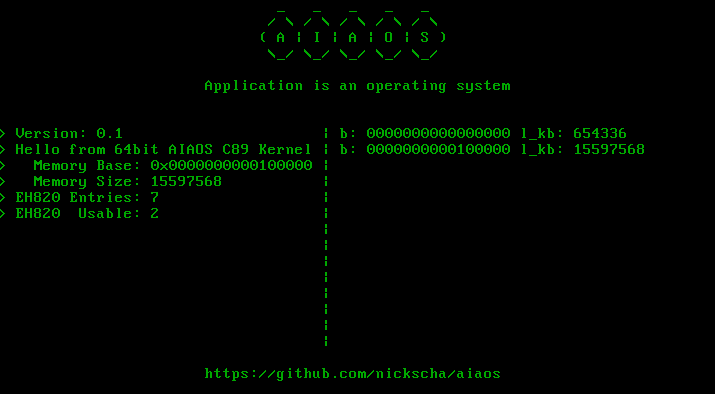
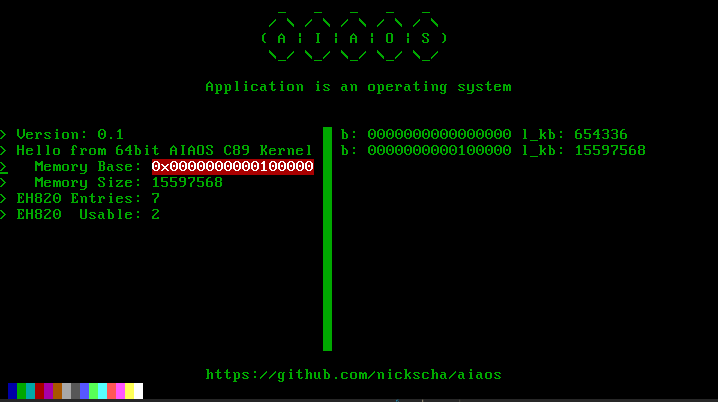
[VGA] add vga color enum

diff --git a/aiaos_kernel.c b/aiaos_kernel.c
@@ -101,28 +101,28 @@ void _start_kernel(void)
     aiaos_kernel_vga_clear_screen();
 
     /* Logo and Header Text */
-    aiaos_kernel_vga_write_string("   _   _   _   _   _", aiaos_logo_row_offset++, aiaos_logo_col_offset, 0x02);
-    aiaos_kernel_vga_write_string("  / \\ / \\ / \\ / \\ / \\", aiaos_logo_row_offset++, aiaos_logo_col_offset, 0x02);
-    aiaos_kernel_vga_write_string(" ( A | I | A | O | S )", aiaos_logo_row_offset++, aiaos_logo_col_offset, 0x02);
-    aiaos_kernel_vga_write_string("  \\_/ \\_/ \\_/ \\_/ \\_/", aiaos_logo_row_offset++, aiaos_logo_col_offset, 0x02);
-    aiaos_kernel_vga_write_string("Application is an operating system", aiaos_logo_row_offset + 1, aiaos_logo_long_col_offset, 0x02);
+    aiaos_kernel_vga_write_string("   _   _   _   _   _", aiaos_logo_row_offset++, aiaos_logo_col_offset, AIAOS_KERNEL_VGA_COLOR_GREEN);
+    aiaos_kernel_vga_write_string("  / \\ / \\ / \\ / \\ / \\", aiaos_logo_row_offset++, aiaos_logo_col_offset, AIAOS_KERNEL_VGA_COLOR_GREEN);
+    aiaos_kernel_vga_write_string(" ( A | I | A | O | S )", aiaos_logo_row_offset++, aiaos_logo_col_offset, AIAOS_KERNEL_VGA_COLOR_GREEN);
+    aiaos_kernel_vga_write_string("  \\_/ \\_/ \\_/ \\_/ \\_/", aiaos_logo_row_offset++, aiaos_logo_col_offset, AIAOS_KERNEL_VGA_COLOR_GREEN);
+    aiaos_kernel_vga_write_string("Application is an operating system", aiaos_logo_row_offset + 1, aiaos_logo_long_col_offset, AIAOS_KERNEL_VGA_COLOR_GREEN);
 
     /* General Information */
-    aiaos_kernel_vga_write_string("> Version: 0.1", 8, 0, 0x02);
-    aiaos_kernel_vga_write_string("> Hello from 64bit AIAOS C89 Kernel", 9, 0, 0x02);
+    aiaos_kernel_vga_write_string("> Version: 0.1", 8, 0, AIAOS_KERNEL_VGA_COLOR_GREEN);
+    aiaos_kernel_vga_write_string("> Hello from 64bit AIAOS C89 Kernel", 9, 0, AIAOS_KERNEL_VGA_COLOR_GREEN);
 
     /* Available Memory Infomration */
-    aiaos_kernel_vga_write_string(">   Memory Base:", 10, 0, 0x02);
-    aiaos_kernel_vga_write_string((char *)ptr_to_string(aiaos_kernel_memory), 10, 17, 0x02);
+    aiaos_kernel_vga_write_string(">   Memory Base:", 10, 0, AIAOS_KERNEL_VGA_COLOR_GREEN);
+    aiaos_kernel_vga_write_string((char *)ptr_to_string(aiaos_kernel_memory), 10, 17, aiaos_kernel_vga_make_color(AIAOS_KERNEL_VGA_COLOR_WHITE, AIAOS_KERNEL_VGA_COLOR_RED));
 
     ultoa(aiaos_kernel_memory_size, buf);
-    aiaos_kernel_vga_write_string(">   Memory Size:", 11, 0, 0x02);
-    aiaos_kernel_vga_write_string(buf, 11, 17, 0x02);
+    aiaos_kernel_vga_write_string(">   Memory Size:", 11, 0, AIAOS_KERNEL_VGA_COLOR_GREEN);
+    aiaos_kernel_vga_write_string(buf, 11, 17, AIAOS_KERNEL_VGA_COLOR_GREEN);
 
     /* E820 Information */
     ultoa((unsigned long)AIAOS_KERNEL_MEMORY_E820_MAP_COUNT, buf);
-    aiaos_kernel_vga_write_string("> EH820 Entries:", 12, 0, 0x02);
-    aiaos_kernel_vga_write_string(buf, 12, 17, 0x02);
+    aiaos_kernel_vga_write_string("> EH820 Entries:", 12, 0, AIAOS_KERNEL_VGA_COLOR_GREEN);
+    aiaos_kernel_vga_write_string(buf, 12, 17, AIAOS_KERNEL_VGA_COLOR_GREEN);
 
     for (i = 0; i < AIAOS_KERNEL_MEMORY_E820_MAP_COUNT; ++i)
     {
@@ -130,28 +130,34 @@ void _start_kernel(void)
         if (entry->type == 1)
         {
             uint_to_hex(buf, entry->base, 16);
-            aiaos_kernel_vga_write_string("b:", 8 + (int)eh820_usable_count, (AIAOS_KERNEL_VGA_COLUMNS_NUM / 2) - 3 + 1, 0x02);
-            aiaos_kernel_vga_write_string(buf, 8 + (int)eh820_usable_count, (AIAOS_KERNEL_VGA_COLUMNS_NUM / 2) - 3 + 1 + 3, 0x02);
+            aiaos_kernel_vga_write_string("b:", 8 + (int)eh820_usable_count, (AIAOS_KERNEL_VGA_COLUMNS_NUM / 2) - 3 + 1, AIAOS_KERNEL_VGA_COLOR_GREEN);
+            aiaos_kernel_vga_write_string(buf, 8 + (int)eh820_usable_count, (AIAOS_KERNEL_VGA_COLUMNS_NUM / 2) - 3 + 1 + 3, AIAOS_KERNEL_VGA_COLOR_GREEN);
 
             ultoa(entry->length, buf);
-            aiaos_kernel_vga_write_string("l_kb:", 8 + (int)eh820_usable_count, (AIAOS_KERNEL_VGA_COLUMNS_NUM / 2) - 3 + 1 + 20, 0x02);
-            aiaos_kernel_vga_write_string(buf, 8 + (int)eh820_usable_count, (AIAOS_KERNEL_VGA_COLUMNS_NUM / 2) - 3 + 1 + 20 + 6, 0x02);
+            aiaos_kernel_vga_write_string("l_kb:", 8 + (int)eh820_usable_count, (AIAOS_KERNEL_VGA_COLUMNS_NUM / 2) - 3 + 1 + 20, AIAOS_KERNEL_VGA_COLOR_GREEN);
+            aiaos_kernel_vga_write_string(buf, 8 + (int)eh820_usable_count, (AIAOS_KERNEL_VGA_COLUMNS_NUM / 2) - 3 + 1 + 20 + 6, AIAOS_KERNEL_VGA_COLOR_GREEN);
 
             eh820_usable_count++;
         }
     }
     ultoa(eh820_usable_count, buf);
-    aiaos_kernel_vga_write_string("> EH820  Usable:", 13, 0, 0x02);
-    aiaos_kernel_vga_write_string(buf, 13, 17, 0x02);
+    aiaos_kernel_vga_write_string("> EH820  Usable:", 13, 0, AIAOS_KERNEL_VGA_COLOR_GREEN);
+    aiaos_kernel_vga_write_string(buf, 13, 17, AIAOS_KERNEL_VGA_COLOR_GREEN);
 
     /* Vertical divider */
     for (i = 0; i < 14; ++i)
     {
-        aiaos_kernel_vga_write_string("|", 8 + i, (AIAOS_KERNEL_VGA_COLUMNS_NUM / 2) - 4, 0x02);
+        aiaos_kernel_vga_write_string("|", 8 + i, (AIAOS_KERNEL_VGA_COLUMNS_NUM / 2) - 4, aiaos_kernel_vga_make_color(AIAOS_KERNEL_VGA_COLOR_GREEN, AIAOS_KERNEL_VGA_COLOR_GREEN));
     }
 
     /* Footer */
-    aiaos_kernel_vga_write_string("https://github.com/nickscha/aiaos", 23, aiaos_logo_long_col_offset, 0x02);
+    aiaos_kernel_vga_write_string("https://github.com/nickscha/aiaos", 23, aiaos_logo_long_col_offset, AIAOS_KERNEL_VGA_COLOR_GREEN);
+
+    for (i = 0; i < AIAOS_KERNEL_VGA_COLOR_COUNT; i++)
+    {
+        aiaos_kernel_vga_color color = (aiaos_kernel_vga_color)i;
+        aiaos_kernel_vga_write_string("#", 24, i, aiaos_kernel_vga_make_color(color, color));
+    }
 }
 
 /*

diff --git a/aiaos_kernel_vga.h b/aiaos_kernel_vga.h
@@ -5,7 +5,33 @@
 #define AIAOS_KERNEL_VGA_ROWS_NUM 25
 #define AIAOS_KERNEL_VGA_MEMORY (volatile char *)0xB8000
 
-static volatile char *vga_buffer = AIAOS_KERNEL_VGA_MEMORY;
+static volatile char *aiaos_kernel_vga_buffer = AIAOS_KERNEL_VGA_MEMORY;
+
+typedef enum aiaos_kernel_vga_color
+{
+    AIAOS_KERNEL_VGA_COLOR_BLACK = 0,
+    AIAOS_KERNEL_VGA_COLOR_BLUE = 1,
+    AIAOS_KERNEL_VGA_COLOR_GREEN = 2,
+    AIAOS_KERNEL_VGA_COLOR_CYAN = 3,
+    AIAOS_KERNEL_VGA_COLOR_RED = 4,
+    AIAOS_KERNEL_VGA_COLOR_MAGENTA = 5,
+    AIAOS_KERNEL_VGA_COLOR_BROWN = 6,
+    AIAOS_KERNEL_VGA_COLOR_LIGHT_GREY = 7,
+    AIAOS_KERNEL_VGA_COLOR_DARK_GREY = 8,
+    AIAOS_KERNEL_VGA_COLOR_LIGHT_BLUE = 9,
+    AIAOS_KERNEL_VGA_COLOR_LIGHT_GREEN = 10,
+    AIAOS_KERNEL_VGA_COLOR_LIGHT_CYAN = 11,
+    AIAOS_KERNEL_VGA_COLOR_LIGHT_RED = 12,
+    AIAOS_KERNEL_VGA_COLOR_LIGHT_MAGENTA = 13,
+    AIAOS_KERNEL_VGA_COLOR_LIGHT_BROWN = 14,
+    AIAOS_KERNEL_VGA_COLOR_WHITE = 15,
+    AIAOS_KERNEL_VGA_COLOR_COUNT
+} aiaos_kernel_vga_color;
+
+char aiaos_kernel_vga_make_color(aiaos_kernel_vga_color foreground, aiaos_kernel_vga_color background)
+{
+    return (char)(foreground | background << 4);
+}
 
 void aiaos_kernel_vga_clear_screen(void)
 {
@@ -13,7 +39,7 @@ void aiaos_kernel_vga_clear_screen(void)
 
     for (i = 0; i < AIAOS_KERNEL_VGA_COLUMNS_NUM * AIAOS_KERNEL_VGA_ROWS_NUM * 2; ++i)
     {
-        vga_buffer[i] = '\0';
+        aiaos_kernel_vga_buffer[i] = '\0';
     }
 }
 
@@ -28,7 +54,7 @@ void aiaos_kernel_vga_clear_screen_row(int row)
 
     for (i = 0; i < AIAOS_KERNEL_VGA_COLUMNS_NUM * 2; ++i)
     {
-        vga_buffer[(AIAOS_KERNEL_VGA_COLUMNS_NUM * 2) * row + i] = '\0';
+        aiaos_kernel_vga_buffer[(AIAOS_KERNEL_VGA_COLUMNS_NUM * 2) * row + i] = '\0';
     }
 }
 
@@ -46,8 +72,8 @@ void aiaos_kernel_vga_write_string(const char *str, int row_offset, int col_offs
 
     while (str[i] != '\0' && (row_offset * AIAOS_KERNEL_VGA_COLUMNS_NUM + col_offset + i) < (AIAOS_KERNEL_VGA_COLUMNS_NUM * AIAOS_KERNEL_VGA_ROWS_NUM))
     {
-        vga_buffer[offset + i * 2] = str[i];
-        vga_buffer[offset + i * 2 + 1] = color;
+        aiaos_kernel_vga_buffer[offset + i * 2] = str[i];
+        aiaos_kernel_vga_buffer[offset + i * 2 + 1] = color;
         i++;
     }
 }
